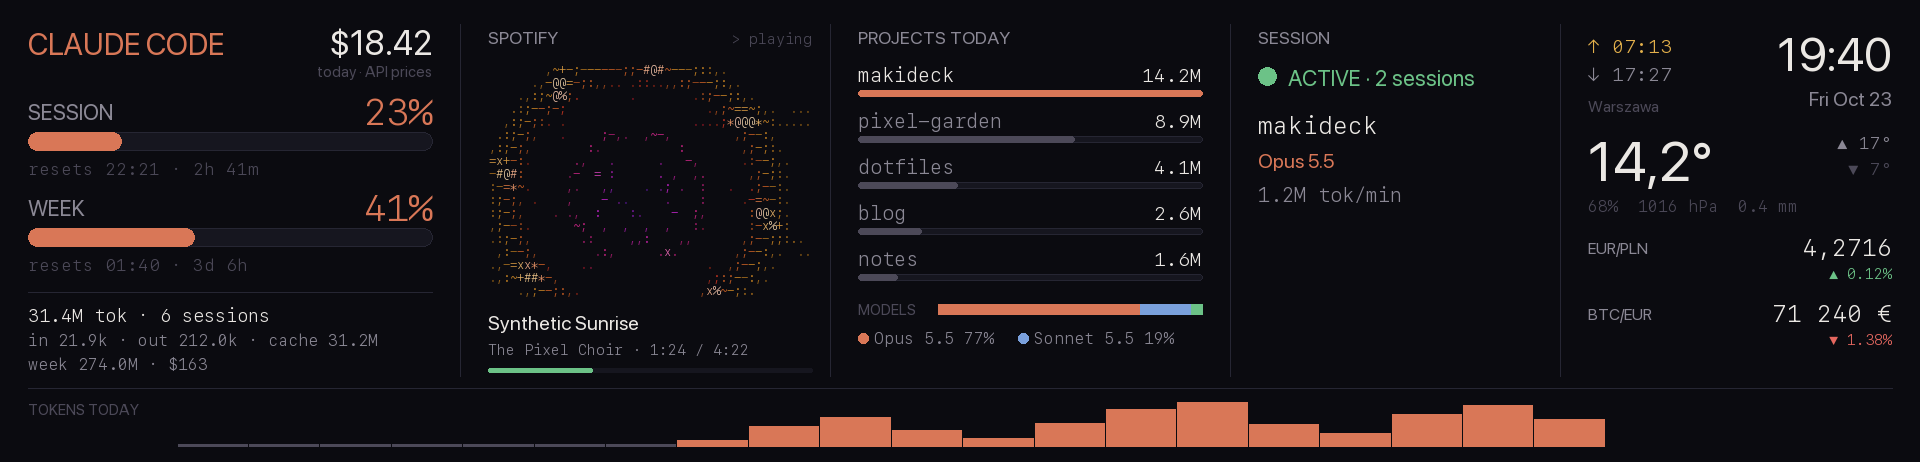
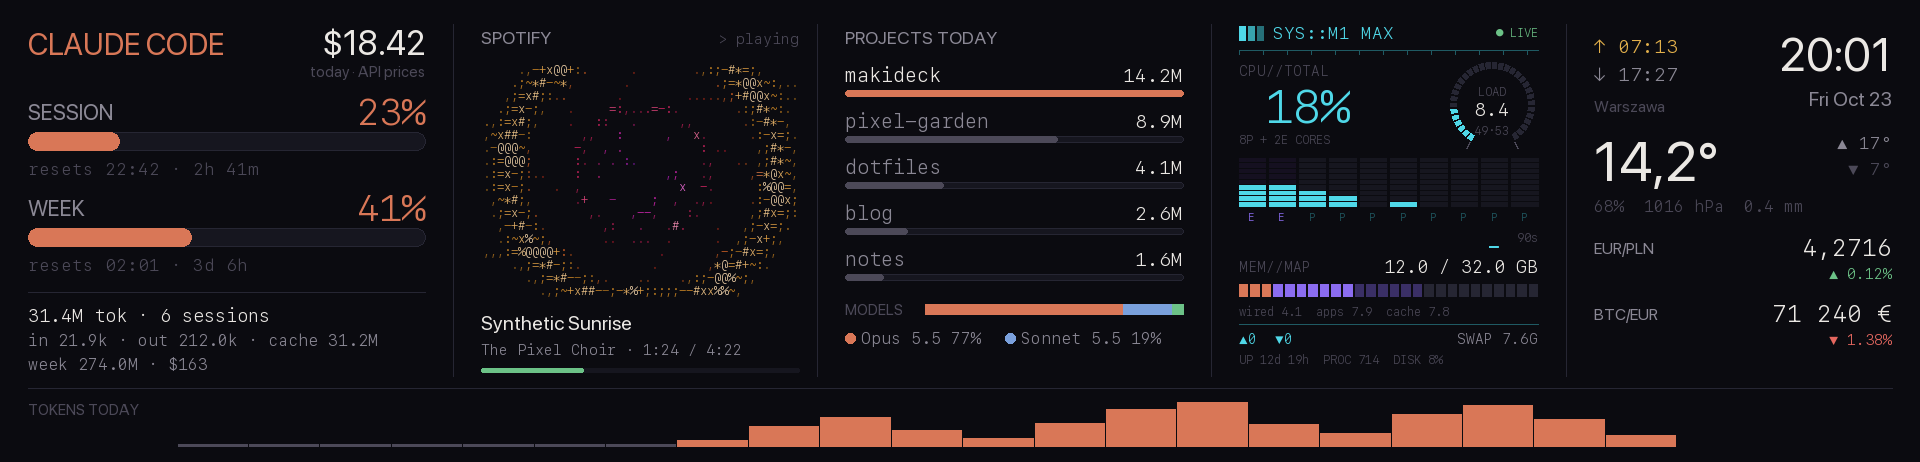
SYS//CORE tile: the Mac's CPU, cores, memory and status, cyber style
CPU total with a segmented load-average dial, a tower per core (efficiency
and performance cores marked), a 90 s ASCII sparkline, a memory map and a
status line. psutil, sampled every second; ships hidden in the tray.

diff --git a/makideck/tiles/system.py b/makideck/tiles/system.py
@@ -1,0 +1,261 @@
+"""SYS//CORE — the Mac's load, drawn like a terminal from the future.
+
+CPU total with a segmented ring (load average inside), one segmented bar per
+core (efficiency and performance cores marked), the last minute of CPU as an
+ASCII sparkline, memory split into wired / apps / cache / free, and a status
+line with network, uptime, processes and disk.
+
+Numbers come from psutil, sampled every second by a source that starts when
+the tile first goes on the panel.
+"""
+from __future__ import annotations
+
+import math
+import os
+import subprocess
+import threading
+import time
+from collections import deque
+from dataclasses import dataclass, field
+
+import psutil
+
+from ..deck import Ctx, Tile, register
+from ..render import draw, theme
+from ..store import Source
+
+CYAN = "#4fd8e8"
+CYAN_DIM = "#1f5a63"
+SPARKS = " ▁▂▃▄▅▆▇█"
+HISTORY = 90                    # seconds kept for the sparkline
+
+
+def _sysctl(name: str) -> str:
+    try:
+        return subprocess.run(["/usr/sbin/sysctl", "-n", name], capture_output=True, text=True,
+                              timeout=2).stdout.strip()
+    except (OSError, subprocess.TimeoutExpired):
+        return ""
+
+
+def _chip() -> tuple[str, list[str]]:
+    """('M1 MAX', ['E', 'E', 'P', ...]) — Apple Silicon numbers its
+    efficiency cores first."""
+    name = _sysctl("machdep.cpu.brand_string").removeprefix("Apple ").upper() or "MAC"
+    cores = psutil.cpu_count() or 1
+    try:
+        e = int(_sysctl("hw.perflevel1.logicalcpu") or 0)
+    except ValueError:
+        e = 0
+    return name, ["E"] * e + ["P"] * (cores - e)
+
+
+@dataclass
+class Sample:
+    at: float = 0.0
+    cpu: float = 0.0
+    cores: list[float] = field(default_factory=list)
+    load: tuple[float, float, float] = (0.0, 0.0, 0.0)
+    mem_total: int = 0
+    mem_wired: int = 0
+    mem_apps: int = 0
+    mem_cache: int = 0
+    mem_free: int = 0
+    swap_used: int = 0
+    net_up: float = 0.0          # bytes/s
+    net_down: float = 0.0
+    procs: int = 0
+    disk_pct: float = 0.0
+    uptime_s: float = 0.0
+
+
+class _Meter:
+    """Latest sample + CPU history, shared between the source and draw."""
+
+    def __init__(self) -> None:
+        self.lock = threading.Lock()
+        self.last = Sample()
+        self.history: deque[float] = deque(maxlen=HISTORY)
+        self._net = None
+        self._chip: tuple[str, list[str]] | None = None
+        psutil.cpu_percent(percpu=True)          # prime: the first call has no baseline
+
+    @property
+    def chip(self) -> str:
+        return self._identify()[0]
+
+    @property
+    def kinds(self) -> list[str]:
+        return self._identify()[1]
+
+    def _identify(self) -> tuple[str, list[str]]:
+        if self._chip is None:
+            self._chip = _chip()
+        return self._chip
+
+    def sample(self) -> Sample:
+        now = time.time()
+        cores = psutil.cpu_percent(percpu=True)
+        vm, sw, net = psutil.virtual_memory(), psutil.swap_memory(), psutil.net_io_counters()
+        up = down = 0.0
+        if self._net:
+            t0, sent, recv = self._net
+            dt = max(now - t0, 1e-3)
+            up, down = (net.bytes_sent - sent) / dt, (net.bytes_recv - recv) / dt
+        self._net = (now, net.bytes_sent, net.bytes_recv)
+        wired = getattr(vm, "wired", 0)
+        apps = getattr(vm, "active", vm.used)
+        cache = getattr(vm, "inactive", 0)
+        s = Sample(at=now, cpu=sum(cores) / len(cores) if cores else 0.0, cores=cores,
+                   load=os.getloadavg(), mem_total=vm.total, mem_wired=wired, mem_apps=apps,
+                   mem_cache=cache, mem_free=max(0, vm.total - wired - apps - cache),
+                   swap_used=sw.used, net_up=up, net_down=down, procs=len(psutil.pids()),
+                   disk_pct=psutil.disk_usage("/").percent, uptime_s=now - psutil.boot_time())
+        with self.lock:
+            self.last = s
+            self.history.append(s.cpu)
+        return s
+
+    def read(self) -> tuple[Sample, list[float]]:
+        with self.lock:
+            last, hist = self.last, list(self.history)
+        if not last.at:                          # no source running (preview): sample once
+            time.sleep(0.2)
+            return self.sample(), [self.last.cpu]
+        return last, hist
+
+
+METER = _Meter()
+
+
+class SystemLoad(Source):
+    every = 1.0
+
+    def poll(self) -> None:
+        METER.sample()
+
+
+# ── drawing ─────────────────────────────────────────────────────────────
+
+def heat(pct: float) -> str:
+    """Cool cyan while idle, accent when busy, red when pinned."""
+    return theme.BAD if pct >= 90 else theme.ACCENT if pct >= 60 else CYAN
+
+
+def gib(n: float) -> str:
+    return f"{n / 2**30:.1f}"
+
+
+def rate(n: float) -> str:
+    for unit, div in (("G", 1e9), ("M", 1e6), ("k", 1e3)):
+        if n >= div:
+            return f"{n / div:.1f}{unit}"
+    return f"{n:.0f}"
+
+
+def ring(d, cx: float, cy: float, r: float, pct: float, segments: int = 32) -> None:
+    lit = round(segments * min(pct, 100) / 100)
+    span = 300 / segments                          # a 300° dial, open at the bottom
+    for i in range(segments):
+        start = 120 + i * span
+        color = heat(100 * (i + 1) / segments) if i < lit else theme.LINE
+        d.arc((cx - r, cy - r, cx + r, cy + r), start, start + span - 3, fill=color, width=7)
+    for a in (120, 420):                           # end ticks
+        rad = math.radians(a)
+        d.line((cx + (r + 3) * math.cos(rad), cy + (r + 3) * math.sin(rad),
+                cx + (r + 9) * math.cos(rad), cy + (r + 9) * math.sin(rad)), fill=theme.FAINT, width=2)
+
+
+def cells(d, x0: float, y: float, x1: float, h: float, parts: list[tuple[float, str]],
+          n: int = 26, gap: float = 3) -> None:
+    """A bar of n separate cells, coloured left to right by (share, colour)."""
+    w = (x1 - x0 - gap * (n - 1)) / n
+    edges, acc = [], 0.0
+    for share, color in parts:
+        acc += share
+        edges.append((acc, color))
+    for i in range(n):
+        mid = (i + 0.5) / n
+        color = next((c for e, c in edges if mid <= e), theme.LINE)
+        left = x0 + i * (w + gap)
+        d.rectangle((left, y, left + w, y + h), fill=color)
+
+
+def render(c: Ctx) -> None:
+    d = c.d
+    s, hist = METER.read()
+    left, right = c.left, c.right
+    small, tiny = theme.mono(14), theme.mono(12)
+
+    # Header: chip name + a blinking LIVE.
+    for i, shade in enumerate((CYAN, "#38a3ae", "#267079")):    # ▓▒░, drawn: fonts lack them
+        d.rectangle((left + i * 9, 26, left + i * 9 + 6, 40), fill=shade)
+    d.text((left + 34, 22), f"SYS::{METER.chip}", font=theme.mono(17), fill=CYAN)
+    blink = c.state.now.second % 2 == 0
+    d.text((right, 25), "● LIVE", font=tiny, fill=theme.GOOD if blink else theme.FAINT, anchor="ra")
+    y = 50
+    d.line((left, y, right, y), fill=CYAN_DIM)
+    for x in range(int(left), int(right) + 1, 24):
+        d.line((x, y, x, y + 4), fill=CYAN_DIM)
+
+    # CPU: big number on the left, the dial on the right.
+    d.text((left, 62), "CPU//TOTAL", font=small, fill=theme.FAINT)
+    d.text((left - 2, 78), f"{s.cpu:3.0f}%", font=theme.mono(46), fill=heat(s.cpu))
+    p = sum(1 for k in METER.kinds if k == "P")
+    e = len(METER.kinds) - p
+    d.text((left, 132), f"{p}P + {e}E CORES" if e else f"{p} CORES", font=tiny, fill=theme.FAINT)
+    cx, cy, r = right - 46, 104, 42
+    ring(d, cx, cy, r, s.cpu)
+    d.text((cx, cy - 13), "LOAD", font=tiny, fill=theme.FAINT, anchor="mm")
+    d.text((cx, cy + 5), f"{s.load[0]:.1f}", font=theme.mono(19), fill=theme.TEXT, anchor="mm")
+    d.text((cx, cy + 26), f"{s.load[1]:.0f}·{s.load[2]:.0f}", font=tiny, fill=theme.FAINT, anchor="mm")
+
+    # Per-core towers.
+    top, bottom, segs = 156, 206, 9
+    n = max(len(s.cores), 1)
+    gap = 4
+    col_w = (right - left - gap * (n - 1)) / n
+    seg_h = (bottom - top) / segs
+    for i, pct in enumerate(s.cores):
+        x = left + i * (col_w + gap)
+        lit = round(segs * pct / 100)
+        kind = METER.kinds[i] if i < len(METER.kinds) else "P"
+        for k in range(segs):
+            y1 = bottom - k * seg_h
+            on = k < lit
+            color = heat(100 * (k + 1) / segs) if on else (theme.CARD if kind == "P" else "#151020")
+            d.rectangle((x, y1 - seg_h + 2, x + col_w, y1), fill=color)
+        d.text((x + col_w / 2, bottom + 4), kind, font=theme.mono(11),
+               fill=theme.VIOLET if kind == "E" else CYAN_DIM, anchor="ma")
+
+    # Sparkline of the last minute and a half, as characters.
+    y = 228
+    font = theme.mono(16)
+    width = int((right - left - 34) // d.textlength("█", font=font))
+    values = hist[-width:]
+    line = "".join(SPARKS[min(len(SPARKS) - 1, round(v / 100 * (len(SPARKS) - 1)))] for v in values)
+    d.text((left, y), line.rjust(width, SPARKS[0]), font=font, fill=CYAN)
+    d.text((right, y + 2), f"{HISTORY}s", font=tiny, fill=theme.FAINT, anchor="ra")
+
+    # Memory.
+    y = 258
+    total = s.mem_total or 1
+    used = s.mem_wired + s.mem_apps
+    d.text((left, y), "MEM//MAP", font=small, fill=theme.FAINT)
+    d.text((right, y - 3), f"{gib(used)} / {gib(total)} GB", font=theme.mono(18), fill=theme.TEXT, anchor="ra")
+    cells(d, left, y + 26, right, 12, [(s.mem_wired / total, theme.ACCENT), (s.mem_apps / total, theme.VIOLET),
+                                       (s.mem_cache / total, "#3a2f66")])
+    legend = f"wired {gib(s.mem_wired)}  apps {gib(s.mem_apps)}  cache {gib(s.mem_cache)}"
+    d.text((left, y + 46), draw.clip(d, legend, tiny, right - left), font=tiny, fill=theme.FAINT)
+
+    # Status line.
+    y = 330
+    d.line((left, y - 6, right, y - 6), fill=CYAN_DIM)
+    up = f"▲{rate(s.net_up)}  ▼{rate(s.net_down)}"
+    d.text((left, y), up, font=small, fill=CYAN)
+    d.text((right, y), f"SWAP {gib(s.swap_used)}G", font=small, fill=theme.DIM, anchor="ra")
+    status = f"UP {draw.until(s.uptime_s)}  PROC {s.procs}  DISK {s.disk_pct:.0f}%"
+    d.text((left, y + 22), draw.clip(d, status, tiny, right - left), font=tiny, fill=theme.FAINT)
+
+
+register(Tile("system", "System", 360, render, sources=(SystemLoad,)))

diff --git a/tools/screenshots.py b/tools/screenshots.py
@@ -91,7 +91,18 @@ async def shoot() -> None:
         await page.select_option(".f select", "3")
         await page.click("#save")
         await page.wait_for_selector("#msg.ok")
-        assert get("/deck")["tiles"][2]["settings"]["rows"] == "3"
+        assert next(t for t in get("/deck")["tiles"] if t["id"] == "projects")["settings"]["rows"] == "3"
+
+        # SYS//CORE from the tray, in place of Session; a crop of it for the README.
+        order = get("/deck")["order"]
+        req = urllib.request.Request(URL + "/deck/order", method="POST", data=json.dumps(
+            {"order": [("system" if t == "session" else t) for t in order]}).encode())
+        urllib.request.urlopen(req)
+        await page.wait_for_timeout(6000)              # a few seconds of history
+        frame = Image.open(urllib.request.urlopen(URL + "/frame.jpg"))
+        x0 = 1920 * (460 + 370 + 400) // (460 + 370 + 400 + 360 + 360)
+        x1 = x0 + 1920 * 360 // (460 + 370 + 400 + 360 + 360)
+        frame.crop((x0, 0, x1, 388)).save(OUT / "system.png")
         await browser.close()
 
 

diff --git a/tests/test_render.py b/tests/test_render.py
@@ -84,3 +84,12 @@ def test_clip():
     assert draw.clip(d, "short", f, 500) == "short"
     cut = draw.clip(d, "a fairly long project name", f, 80)
     assert cut.endswith("…") and d.textlength(cut, font=f) <= 80
+
+
+def test_system_tile_samples_and_draws():
+    from makideck.tiles.system import METER, Sample, heat
+    s = METER.sample()
+    assert isinstance(s, Sample) and s.mem_total > 0 and len(s.cores) == len(METER.kinds)
+    assert heat(10) != heat(70) != heat(95)
+    deck.set_order(["claude", "system"])
+    assert dashboard.frame(demo_state()).getbbox() is not None

diff --git a/tests/test_deck.py b/tests/test_deck.py
@@ -11,7 +11,7 @@ def test_default_columns_fill_the_panel():
 
 def test_hiding_a_tile_stretches_the_rest():
     assert deck.set_order(["claude", "outside"])
-    assert sorted(deck.hidden()) == ["projects", "session", "spotify"]
+    assert sorted(deck.hidden()) == ["projects", "session", "spotify", "system"]
     (_, a0, a1), (_, b0, b1) = deck.columns(1920)
     assert (a0, b1) == (0, 1920)
     assert abs((a1 - a0) / (b1 - b0) - 460 / 360) < 0.01

diff --git a/README.md b/README.md
@@ -16,6 +16,9 @@ quotes sit beside it, and you arrange all of it by dragging tiles in your browse
 | **Projects today** | where today's tokens went and the split between models | Claude Code's session transcripts, read locally |
 | **Session** | whether Claude is working right now, on what, with which model, how fast | the same transcripts |
 | **Outside** | clock, sunrise and sunset, weather for your city (tap for 10 days) and two quotes (currencies, crypto or stocks) | Open-Meteo, NBP, Kraken, Yahoo Finance; no keys needed |
+| **SYS//CORE** *(in the tray)* | your Mac's load: CPU with a load-average dial, a tower per core (efficiency/performance), the last 90 s as an ASCII sparkline, a memory map, network, swap, uptime | psutil, sampled every second |
+
+<p align="center"><img src="docs/img/system.png" alt="SYS//CORE tile" width="300"></p>
 
 The footer is today's tokens per hour. Everything except the usage query and
 the weather/price lookups stays on your Mac.
